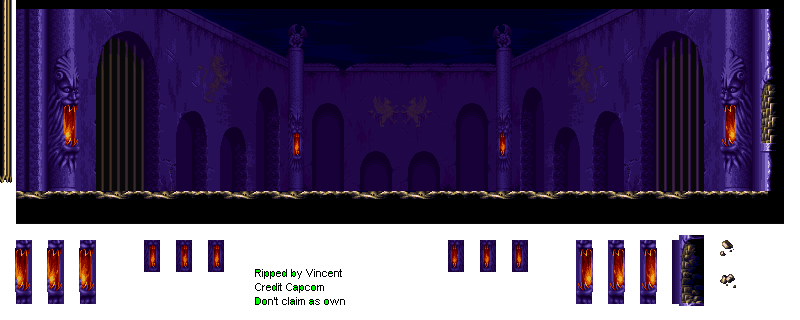
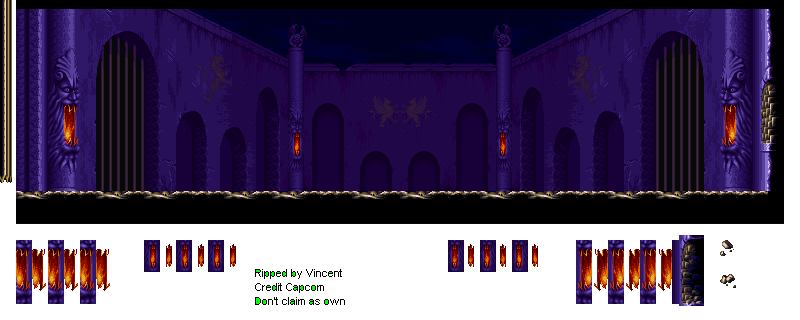
Adicionado tweens para os sprites

diff --git a/src/scenes/simple-scene.js b/src/scenes/simple-scene.js
@@ -9,12 +9,9 @@ export class SimpleScene extends Phaser.Scene {
     this.load.atlas('demons_crest', 'assets/demons_crest_sprites.png', 'assets/demons_crest_sprites.json');
     
     this.load.scenePlugin('animatedTiles', AnimatedTiles, 'animatedTiles', 'animatedTiles');
-    //this.load.plugin('AnimatedTiles', AnimatedTiles);
   }
 
   create() {
-    //this.sys.install('AnimatedTiles');
-
     const map = this.make.tilemap({ key: 'map'});
   
     // Parameters are the name you gave the tileset in Tiled and then the key of the tileset image in
@@ -22,11 +19,15 @@ export class SimpleScene extends Phaser.Scene {
     this.tileset = map.addTilesetImage("fundo", "background");
 
     // Parameters: layer name (or index) from Tiled, tileset, x, y
-    const groundLayer = map.createStaticLayer("chao", this.tileset, 0, 0);
-    const paredeLayer = map.createStaticLayer("parede", this.tileset, 0, 0);
+    const groundLayer = map.createDynamicLayer("chao", this.tileset, 0, 0);
+    const paredeLayer = map.createDynamicLayer("parede", this.tileset, 0, 0);
     const fundoLayer = map.createDynamicLayer("fundo", this.tileset, 0, 0);    
-
-    //To initilize the plugin you just need to pass the tilemap you want to animate to the plugin.
+    const fundoSpriteLayer = map.createDynamicLayer("Sprites", this.tileset, 0, 0);  
+    
+    this.camadas = {
+      groundLayer, paredeLayer, fundoLayer, fundoSpriteLayer
+    };
+     //To initilize the plugin you just need to pass the tilemap you want to animate to the plugin.
     //The plugin requires a dynamic layers to work.
     this.sys.animatedTiles.init(map);
 
@@ -57,17 +58,62 @@ export class SimpleScene extends Phaser.Scene {
     this.physics.add.collider(this.player.sprite, groundLayer);
     this.physics.add.collider(this.player.sprite, paredeLayer);
 
-
-
      //cria cursor
     this.cursors = this.input.keyboard.createCursorKeys();
     
     const cam = this.cameras.main;
-    cam.startFollow(this.player.sprite);
+    cam.startFollow(this.player.sprite, true);
     cam.setBounds(0, 0, map.widthInPixels, map.heightInPixels);
-    cam.fadeFrom(1000, 0, 0, 0);
+    cam.setDeadzone(60, 20);
+
+    window.enableDebugsCamDeadZone = () => {
+      if (cam.deadzone) {
+          var graphics = this.add.graphics().setScrollFactor(0);
+          graphics.lineStyle(2, 0x00ff00, 1);
+          graphics.strokeRect(spawnPoint.x - cam.deadzone.width, spawnPoint.y - cam.deadzone.height, cam.deadzone.width, cam.deadzone.height);
+      }
+    };
+
+
+    //
+    this.inicializarCena();
   }
 
+  /**
+   * Inicializa a Cena
+   */
+  inicializarCena() {
+    const  {
+      groundLayer, paredeLayer, fundoLayer, fundoSpriteLayer
+    } = this.camadas;
+
+    //Remove a visibilidade das camadas
+    //para que sejam mostradas por interpolação
+    //através dos teweens
+    groundLayer.setAlpha(0);
+    paredeLayer.setAlpha(0);
+    fundoLayer.setAlpha(0);
+    fundoSpriteLayer.setAlpha(0);
+    this.player.sprite.setAlpha(0);
+
+    this.tweens.add({
+      targets: [this.player.sprite, fundoSpriteLayer],
+      alpha: 1,
+      duration: 1000,
+      ease: 'Linear',
+      delay: 1000
+    });
+    this.tweens.add({
+      targets: [groundLayer,fundoLayer, paredeLayer],
+      alpha: 1,
+      duration: 3000,
+      ease: 'Quint.easeIn',
+      delay: 2000
+    });
+
+    this.player.sprite.setFlipX(true);
+  }
+  
   update(time, delta) {
     this.player.update(time,delta);
   }

diff --git a/src/index.html b/src/index.html
@@ -10,35 +10,57 @@
     <meta http-equiv="cleartype" content="on">
     <meta name="format-detection" content="telephone=no">
     <style>
-        html,
-        body {
+        * {
           margin: 0;
           padding: 0;
-             image-rendering: optimizeSpeed;              /* Older versions of FF */
+        }
+
+        html,
+        body {
+          image-rendering: optimizeSpeed;              /* Older versions of FF */
           image-rendering: -moz-crisp-edges;           /* FF 6.0+ */
           image-rendering: -webkit-optimize-contrast;  /* Webkit (non standard naming) */
           image-rendering: -o-crisp-edges;             /* OS X & Windows Opera (12.02+) */
           image-rendering: crisp-edges;                /* Possible future browsers. */
           -ms-interpolation-mode: nearest-neighbor;    /* IE (non standard naming) */
           image-rendering: pixelated;                  /* Chrome 41 */
+          min-height: 100%;
         }
 
         body {
+            background: linear-gradient(rgba(0, 0, 0, 1), rgba(0,0,0,0.2) ), url(assets/back_page.jpg) fixed;
+            background-size: cover;
+            background-repeat: no-repeat;
             color: white;
             font-family: sans-serif;
             background-color: black;
         }
 
-        .title {
-            margin: auto;
+        .head {
+            margin-top: 20px;
+            margin: 10px 10px;
         }
 
-        .container {
-            display: absolute;
-        } 
+        .title {
+            float:left;
+        }
 
         .menu-lateral {
             float:right;
+            background-color: rgba(0, 0, 0, 0.5); 
+            padding: 30px 30px;
+            
+        }
+
+        .menu-lateral li {
+            display: inline-block;
+            margin-left: 20px;
+
+        }
+        
+        a {
+            color: white;
+            text-decoration: none;
         }
 
         #game-container {
@@ -48,8 +70,8 @@
         }
     
         #game-container {
-            min-width: 100vw;
-            min-height: 100vh;
+            min-width: 80vw;
+            min-height: 80vh;
             display: flex;
             align-items: center;
             justify-content: center;
@@ -62,12 +84,15 @@
 </head>
 
 <body>
-    <h1 class="title">Demons Crest with Phaser3</h1>
-    <div class="container">
-        <div class="menu-lateral">
-            <a href='javascript:enableDebugsPlayerHitbox()'>Enable Player Hitbox debug</a>
-            <a href='javascript:enableDebugsCollides()'>Enable Collides debug</a>
-        </div>
-        <div id="game-container"></div>
+    
+    <div class="head">
+        <h1 class="title">Demons Crest with Phaser3</h1>
+        <ul class="menu-lateral">
+            <li><a href='javascript:enableDebugsPlayerHitbox()'>Enable Player Hitbox debug</a></li>    
+            <li><a href='javascript:enableDebugsCollides()'>Enable Collides debug</a></li>
+            <li><a href='javascript:enableDebugsCamDeadZone()'>Enable Cam Deadzone debug</a></li>
+        </ul>
     </div>
+    
+    <div id="game-container"></div>
 </body>
